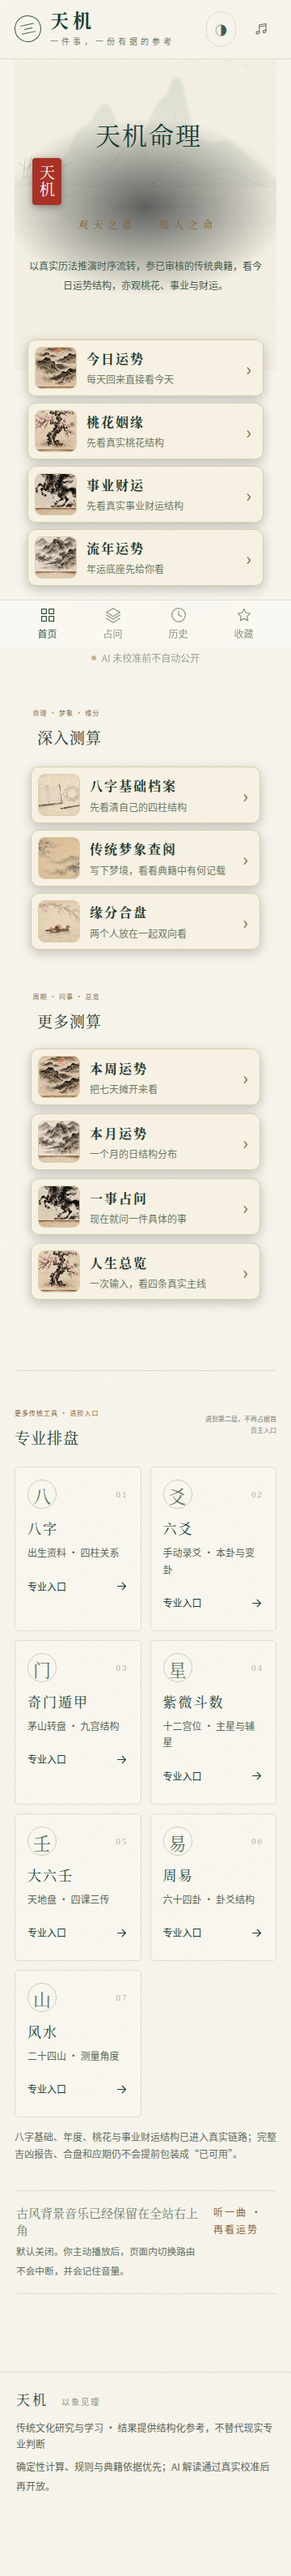
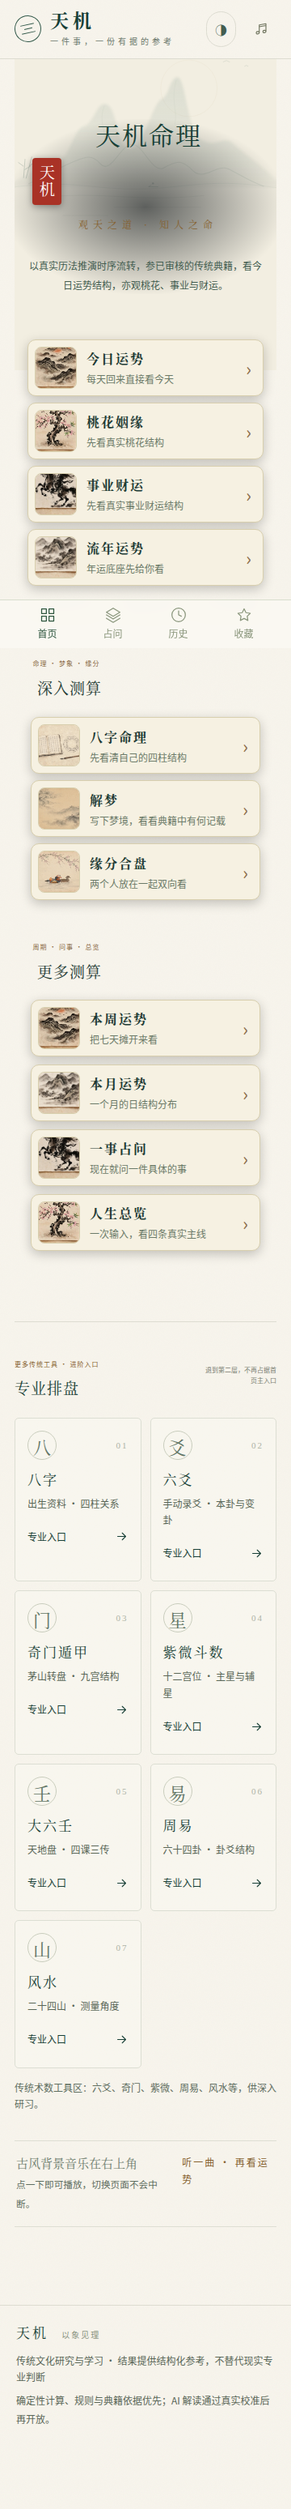
fix(TJ-008.7): final polish - display names, copy cleanup, 11 nav tests
1. Layer 2 display names: 八字命理 / 解梦 / 缘分合盘 (homepage only,
   IDs/routes/backend unchanged).
2. Removed dev-speak: scenario-proof simplified, professional-note
   naturalized, music hint rewritten for users.
3. Added 11 real click-navigation tests (each: click from homepage,
   URL change, page renders, title matches, no JS errors). 50/50 pass.

diff --git a/web/visual-prototype/src/public/HomePage.tsx b/web/visual-prototype/src/public/HomePage.tsx
@@ -20,6 +20,10 @@ export function HomePage() {
   const weekly = scenarioProducts.find((item) => item.id === "weekly")!;
   const monthly = scenarioProducts.find((item) => item.id === "monthly")!;
   const question = scenarioProducts.find((item) => item.id === "question")!;
+  // 第二层展示名（面向普通用户）：仅覆盖首页显示，不改 ID/路由/后端
+  const baziDisplay = { ...baziProfile, name: "八字命理" };
+  const dreamDisplay = { ...dream, name: "解梦" };
+  const compatibilityDisplay = { ...compatibility, name: "缘分合盘" };
   const homePriority = [
     "daily", "romance", "career", "yearly", "weekly", "monthly",
     "bazi-profile", "dream", "compatibility", "life", "question",
@@ -80,10 +84,9 @@ export function HomePage() {
           <MobileCardRow product={yearly} art="mountains" />
         </div>
         <div className="scenario-proof">
-          <span><i />确定性计算先行</span>
-          <span><i />规则与典籍可追溯</span>
-          <span><i />今日 / 本周 / 本月 / 年度可重复计算</span>
-          <span><i />AI 未校准前不自动公开</span>
+          <span><i />真实结构计算</span>
+          <span><i />典籍依据可查</span>
+          <span><i />每日皆可重看</span>
         </div>
       </section>
 
@@ -96,14 +99,14 @@ export function HomePage() {
           </div>
         </div>
         <div className="paper-cards spotlight-cards">
-          <PaperCard product={baziProfile} art="bazi" />
-          <PaperCard product={dream} art="dream" />
-          <PaperCard product={compatibility} art="compatibility" />
+          <PaperCard product={baziDisplay} art="bazi" />
+          <PaperCard product={dreamDisplay} art="dream" />
+          <PaperCard product={compatibilityDisplay} art="compatibility" />
         </div>
         <div className="mobile-card-list">
-          <MobileCardRow product={baziProfile} art="bazi" />
-          <MobileCardRow product={dream} art="dream" />
-          <MobileCardRow product={compatibility} art="compatibility" />
+          <MobileCardRow product={baziDisplay} art="bazi" />
+          <MobileCardRow product={dreamDisplay} art="dream" />
+          <MobileCardRow product={compatibilityDisplay} art="compatibility" />
         </div>
       </section>
 
@@ -152,14 +155,14 @@ export function HomePage() {
           ))}
         </div>
         <p className="professional-note">
-          八字基础、年度、桃花与事业财运结构已进入真实链路；完整吉凶报告、合盘和应期仍不会提前包装成“已可用”。
+          传统术数工具区：六爻、奇门、紫微、周易、风水等，供深入研习。
         </p>
       </section>
 
       <section className="home-music-hint">
         <div>
-          <strong>古风背景音乐已经保留在全站右上角</strong>
-          <small>默认关闭。你主动播放后，页面内切换路由不会中断，并会记住音量。</small>
+          <strong>古风背景音乐在右上角</strong>
+          <small>点一下即可播放，切换页面不会中断。</small>
         </div>
         <span className="eyebrow">听一曲 · 再看运势</span>
       </section>

diff --git a/web/visual-prototype/tests/original-design-home.spec.ts b/web/visual-prototype/tests/original-design-home.spec.ts
@@ -123,3 +123,38 @@ for (const theme of ["night", "paper"] as const) {
     });
   }
 }
+
+// TJ-008.7 收尾：11/11 场景真实点击导航（非仅链接存在）。
+// 每个场景：从首页真实入口点击 → URL 变化 → 页面真实渲染 → 标题对应 → 无 JS 异常。
+const SCENARIOS = [
+  { name: "今日运势", href: "/daily-structure", title: /今日结构/ },
+  { name: "桃花姻缘", href: "/romance-structure", title: /桃花/ },
+  { name: "事业财运", href: "/career-wealth-structure", title: /事业财运/ },
+  { name: "流年运势", href: "/yearly-structure", title: /流年/ },
+  { name: "八字命理", href: "/bazi-profile", title: /八字/ },
+  { name: "解梦", href: "/dream-culture", title: /梦/ },
+  { name: "缘分合盘", href: "/compatibility-structure", title: /合盘/ },
+  { name: "本周运势", href: "/weekly-structure", title: /本周/ },
+  { name: "本月运势", href: "/monthly-structure", title: /本月/ },
+  { name: "一事占问", href: "/ask", title: /占问|一事/ },
+  { name: "人生总览", href: "/life-overview", title: /人生总览/ },
+];
+
+for (const s of SCENARIOS) {
+  test(`TJ-008.7: click-navigate ${s.name} -> ${s.href}`, async ({ page }) => {
+    const errors: string[] = [];
+    page.on("pageerror", (e) => errors.push(String(e)));
+    await page.goto("/");
+    const link = page.locator(`main a[href="${s.href}"]`).first();
+    await link.waitFor({ state: "visible", timeout: 10000 });
+    await link.click();
+    await expect(page).toHaveURL(new RegExp(s.href.replace(/\//g, "\\/") + "$"), { timeout: 10000 });
+    // 页面真实渲染：main 有标题且内容与目标场景对应、非空白
+    const main = page.locator("main");
+    await main.locator("h1, h2").first().waitFor({ timeout: 10000 });
+    await expect(main).toContainText(s.title);
+    const bodyText = await main.innerText();
+    expect(bodyText.trim().length).toBeGreaterThan(20);
+    expect(errors).toEqual([]);
+  });
+}
